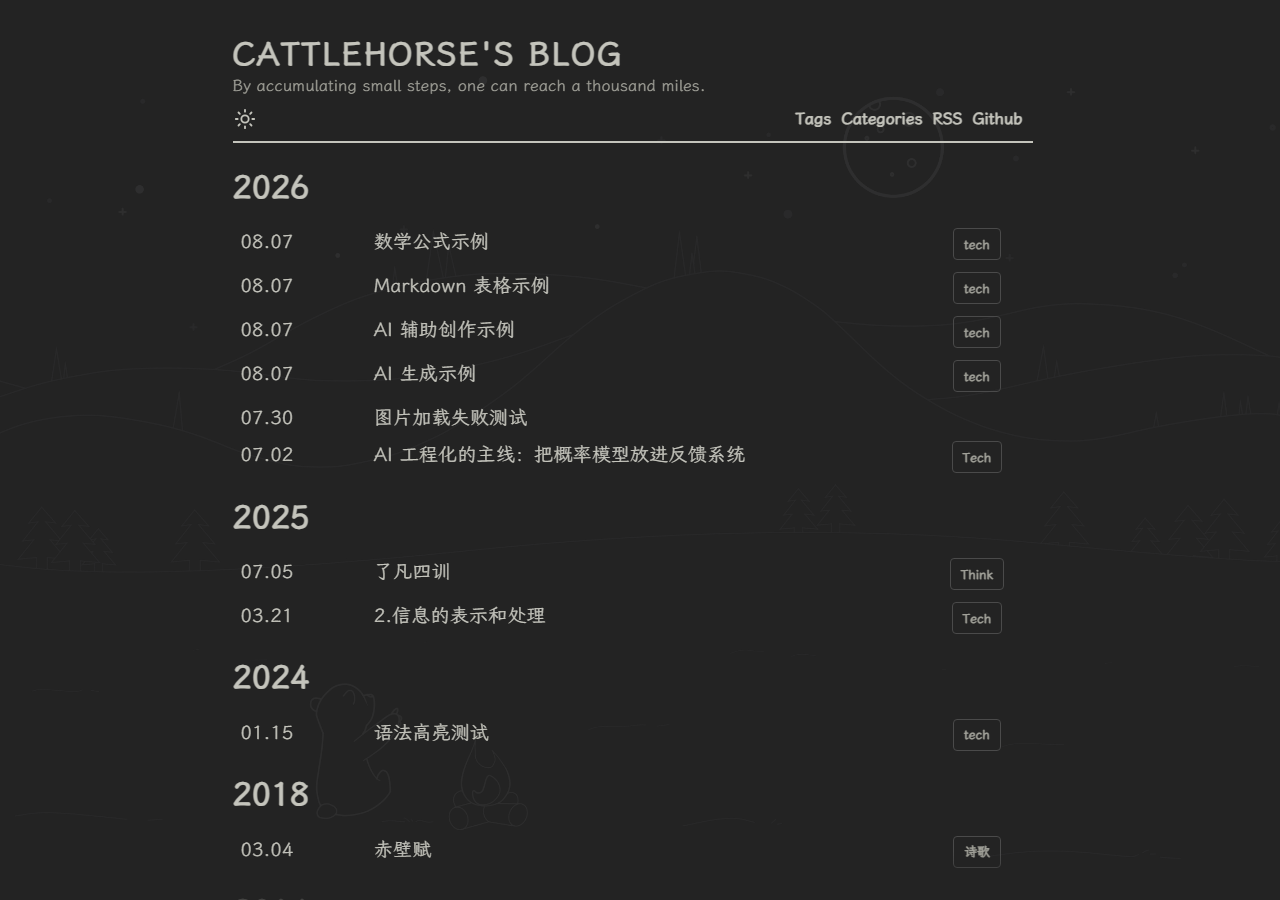
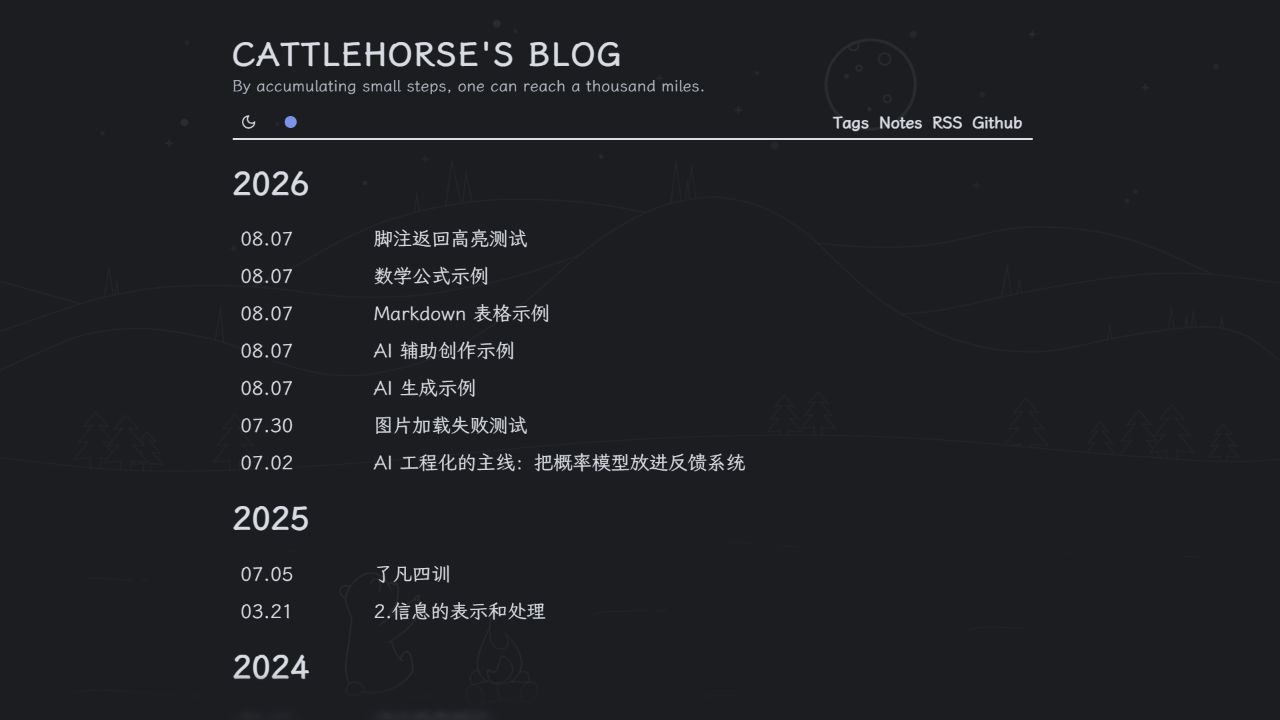
docs: 更新主题功能介绍与首页截图

diff --git a/README.md b/README.md
@@ -1,6 +1,6 @@
 # YinYang
 
-一个极简的 Hugo 博客主题，fork 自 [joway/hugo-theme-yinyang](https://github.com/joway/hugo-theme-yinyang)，并在此基础上做了大量增强。
+一个极简的 Hugo 博客主题，支持 Blog 长文、Notes 短记录与 Gallery 图库。
 
 **在线演示**：[https://cattle0horse.github.io/](https://cattle0horse.github.io/)
 
@@ -8,22 +8,32 @@
 
 ![暗色主题](./images/home-dark.png)
 
-## 与原版 yinyang 相比
+## 功能
 
-除了继承原版的极简布局，这个 fork 新增了以下能力：
+主题提供以下能力：
 
 | 功能 | 说明 |
 |---|---|
-| 🌓 外观切换 | 靛蓝 / 紫罗兰 / 石墨调色盘与明暗模式独立选择，点击轮换亮色 / 暗色 / 跟随浏览器，无闪屏（FOUC） |
-| 📐 数学公式 | 构建期服务端渲染 KaTeX，页面加载零 JS、零跳变 |
-| 💻 代码块工具栏 | 语言标签、一键复制、超长代码自动折叠 |
-| 🖼 图片增强 | 原生懒加载、异步解码、骨架屏占位、加载失败重试 |
-| 📑 文章目录 | 宽屏侧边栏 / 窄屏浮层，滚动自动高亮当前位置 |
-| 📌 脚注跳转 | 点击跳转脚注，返回引用处并脉冲高亮 |
-| 🗂 Gallery 图库 | 专门的内容类型，两列网格展示图片 |
-| ⚡ 文章操作区 | 复制 Markdown、查看 Raw、编辑原文纠错 |
-| 🤖 AI 创作标注 | frontmatter 声明创作方式，标题下方低调标注 |
-| 📝 Notes 短记录 | 无标题正文时间线、独立链接、来源文章与分页 |
+| 🌓 外观切换 | 靛蓝 / 紫罗兰 / 石墨配色与明暗模式独立选择，支持亮色 / 暗色 / 跟随浏览器、偏好保存与首次加载无闪屏；支持的浏览器中提供明暗切换圆形扩散动画 |
+| 🧭 站内导航 | 无刷新切换页面、正文淡入与加载进度提示；前进后退恢复阅读位置、代码展开状态和内容横向滚动位置 |
+| 📱 自适应布局 | 宽窄屏切换保持阅读位置，页头链接空间不足时自动收进菜单，Gallery 手机单列展示 |
+| 📖 阅读排版 | 系统字体栈、长标题换行、宽表格局部横向滚动与滑动提示，代码和公式独立横向滚动 |
+| 🌫 边缘效果 | 正文和目录上下边缘随滚动显示淡出效果，可选渐进模糊 |
+| 📐 数学公式 | 构建期 KaTeX 渲染行内与块级公式，输出 HTML 与 MathML，按需加载样式，页面加载无需公式渲染 JS、无跳变 |
+| 💻 代码块工具栏 | 语法高亮、语言标签、一键复制、长代码折叠与展开，缩进式代码块也支持复制 |
+| 🖼 图片增强 | 原生懒加载、异步解码、骨架屏占位、加载淡入与失败重试；正文和 Gallery 可独立启用柔和内描边 |
+| 📑 文章目录 | 宽屏侧边栏 / 窄屏浮层，滚动高亮与自动跟随，点击跳转并标记标题，可按文章禁用 |
+| 📌 脚注跳转 | 引用与脚注双向跳转、提示与脉冲高亮 |
+| 🗂 Gallery 图库 | 独立内容类型，响应式图片网格与说明文字，复用图片增强和文章操作 |
+| 📝 Notes 短记录 | 可选标题、完整正文时间线、按月分组与分页、独立链接、多种来源格式，以及与 Blog 隔离的标签体系 |
+| 🏷 Blog 标签 | 文章标签、标签总览与按标签浏览，与 Notes 标签分别组织 |
+| ⚡ 文章操作区 | 复制原始 Markdown、查看 GitHub Raw、编辑原文与底部纠错入口，支持 Blog / Gallery / Note 详情页 |
+| 🤖 AI 创作标注 | 文章 front matter 声明辅助或生成方式，可关闭标注或自定义文案 |
+| 📡 RSS 订阅 | Blog 与 Notes 独立 feed，可分别启用 |
+| 🔎 SEO | 页面标题与描述、Open Graph 和 JSON-LD 结构化数据，支持自定义分享图片 |
+| 📊 访问统计 | 可选不蒜子全站 UV/PV 采集，Blog / Gallery / Note 详情页展示阅读量 |
+| ⌨ 键盘交互 | 菜单键盘导航、目录浮层焦点锁定与 Esc 关闭、焦点归还、复制结果状态播报 |
+| 🛠 内容与样式自定义 | 自定义字体、CSS、Head / Body 与文章首尾内容注入、静态资源 CDN 前缀；提供 Blog / Note 内容模板与 Nushell 创建脚本 |
 
 ## 安装
 

diff --git a/AGENTS.md b/AGENTS.md
@@ -1,6 +1,12 @@
 ## 项目概述
 
-YinYang 是一个极简 Hugo 博客主题，fork 自 `joway/hugo-theme-yinyang`。功能包括：暗色/亮色主题切换、构建期 KaTeX 服务端渲染的数学公式、图片懒加载与骨架屏、代码块工具栏（语言标签/复制/折叠）、TOC 目录滚动监听、脚注高亮跳转、SEO JSON-LD、Gallery 内容类型、Notes 短记录时间线、CJK 排版优化。
+YinYang 是一个极简 Hugo 博客主题，支持 Blog 长文、Notes 短记录与 Gallery 图库。主要能力包括：
+
+- **内容组织**：Blog 标签、Notes 完整正文时间线（可选标题、按月分组、分页、来源与独立标签）、响应式 Gallery 图片网格，以及 Blog / Notes 独立 RSS。
+- **外观与布局**：亮色 / 暗色 / 跟随浏览器、靛蓝 / 紫罗兰 / 石墨配色、偏好保存与无闪屏初始化、明暗切换圆形扩散动画、自适应页头导航、宽窄屏滚动容器切换与阅读位置保持、边缘淡出和可选渐进模糊。
+- **导航与交互**：站内无刷新导航、正文切换动画与加载进度、前进后退恢复阅读和代码状态、自适应 TOC 与滚动监听、脚注双向跳转与高亮、菜单键盘导航、目录浮层焦点管理和复制结果播报。
+- **正文阅读**：系统字体与 CJK 排版优化、宽表格和代码 / 公式局部横向滚动、构建期 KaTeX HTML / MathML 渲染、代码语法高亮与语言 / 复制 / 折叠工具栏、图片懒加载 / 异步解码 / 骨架屏 / 淡入 / 失败重试，以及正文和 Gallery 独立图片内描边。
+- **发布与扩展**：Markdown 复制、GitHub 编辑 / Raw 与纠错入口、可配置 AI 创作标注、SEO 元信息与 JSON-LD、可选不蒜子访问统计、自定义 CSS / Head / Body / 文章首尾注入、静态资源 CDN 前缀、内容 archetype 与 Nushell 新建脚本。
 
 ## 开发命令
 
